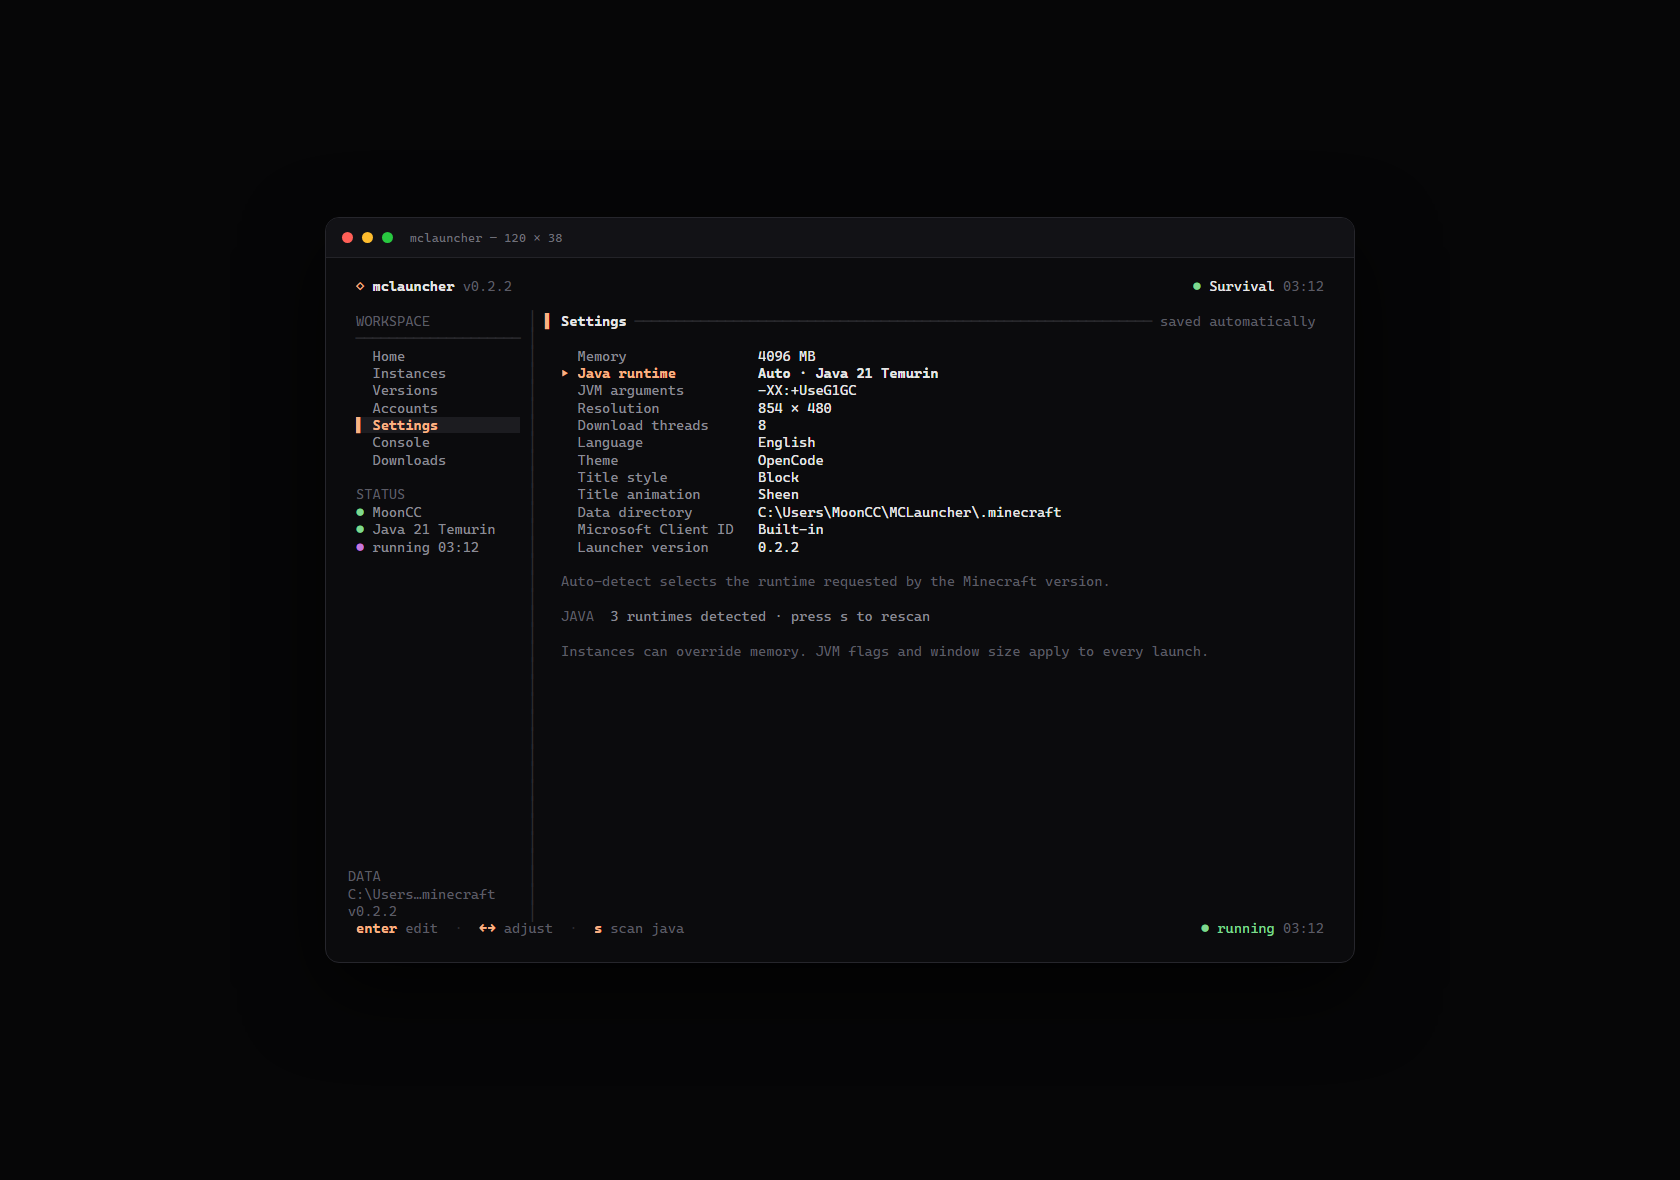
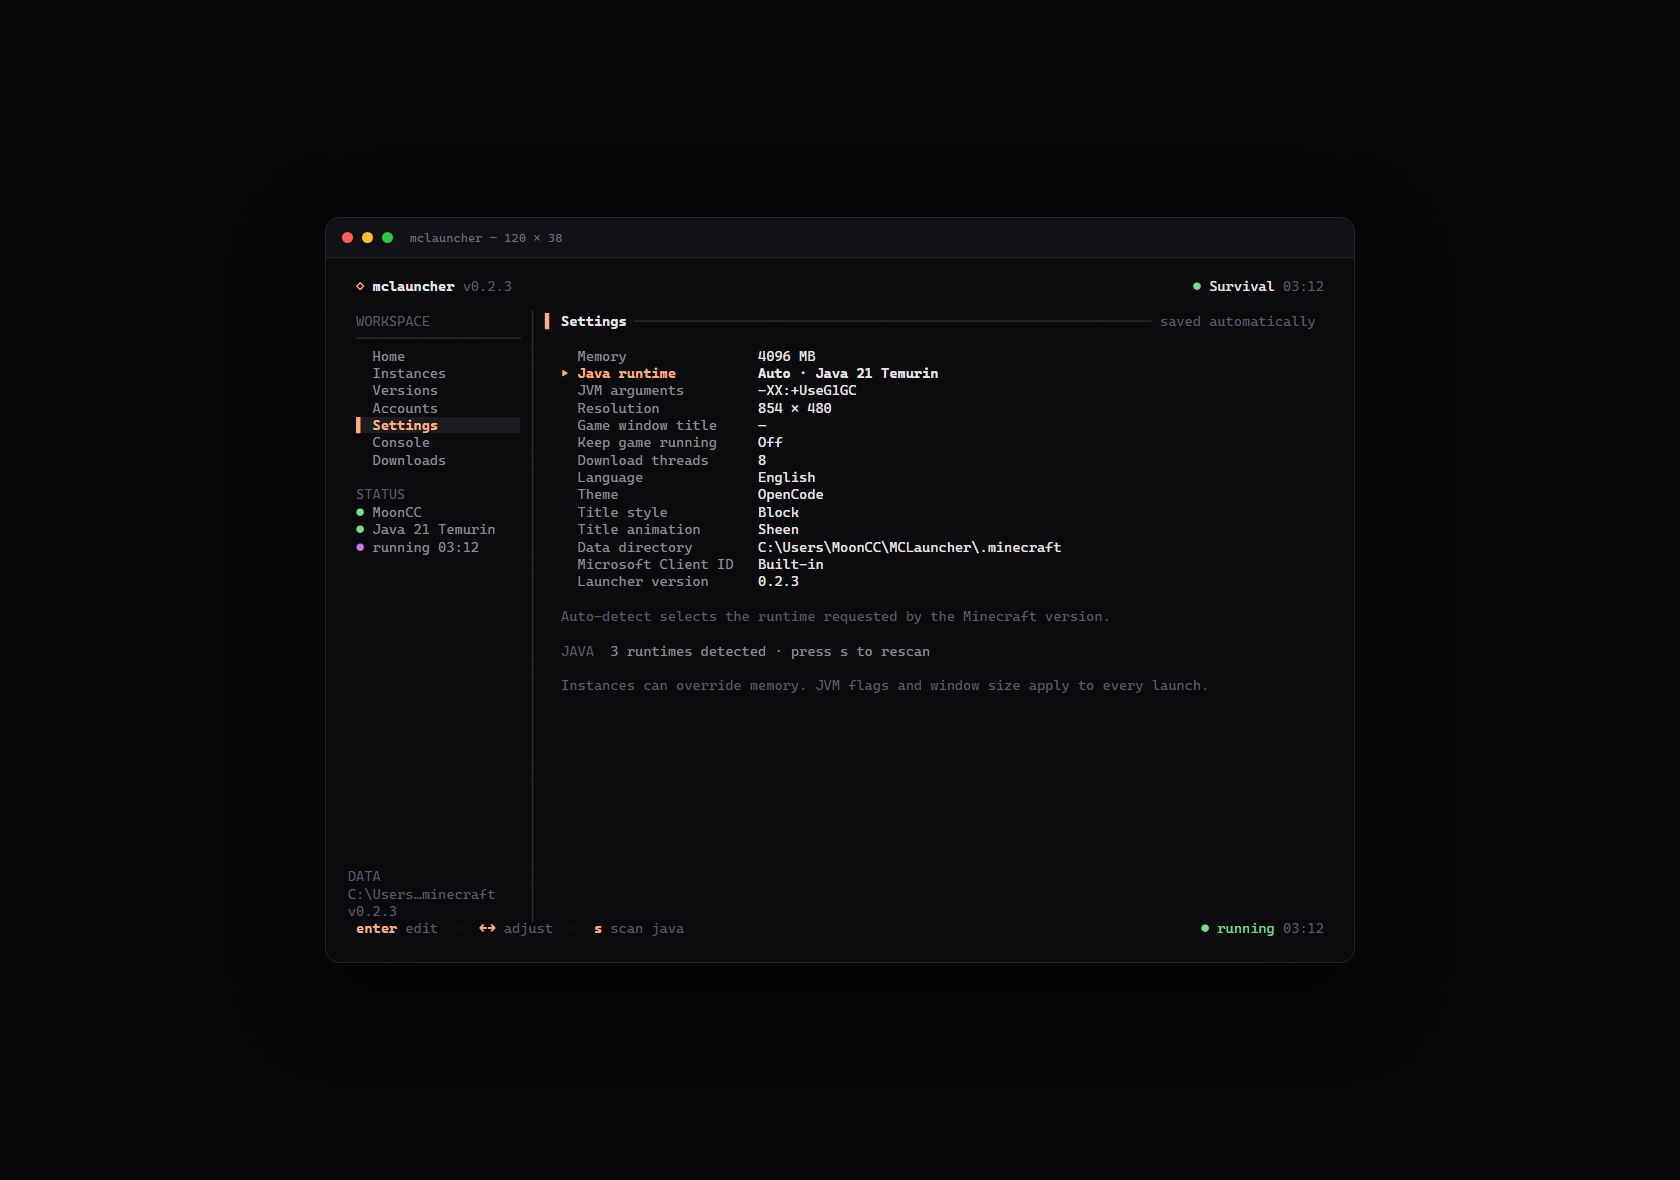
docs: add v0.2.3 release notes and screenshots

Changed region(s): [[0.3405, 0.3356, 0.7119, 0.6102]]

diff --git a/internal/tui/preview.go b/internal/tui/preview.go
@@ -46,7 +46,7 @@ func Preview(screenName string, width, height int, language ...string) string {
 	}
 
 	layout := paths.New(`C:\Users\MoonCC\MCLauncher\.minecraft`)
-	m := New(cfg, layout, nil, "0.2.2", "")
+	m := New(cfg, layout, nil, "0.2.3", "")
 	// Previews must be deterministic and must not read a real data directory.
 	m.taskHistory = nil
 	m.width = width
@@ -101,7 +101,7 @@ func Preview(screenName string, width, height int, language ...string) string {
 	push := func(source, text string, ago time.Duration) {
 		m.logs = append(m.logs, LogLine{At: now.Add(-ago), Source: source, Text: text})
 	}
-	push("system", "mclauncher 0.2.2", 62*time.Second)
+	push("system", "mclauncher 0.2.3", 62*time.Second)
 	push("launcher", "version manifest: network · 27 versions", 61*time.Second)
 	push("launcher", "java scan: 3 runtimes", 60*time.Second)
 	push("launcher", "installed 1.21.4 · 512 files · 283.4 MB", 59*time.Second)

diff --git a/internal/tui/preview_test.go b/internal/tui/preview_test.go
@@ -44,7 +44,7 @@ var previewScreens = []string{
 	"loader",
 	"loader-versions",
 	"loader-java",
-	"mods",
+	"content",
 }
 
 func TestPreviewFrames(t *testing.T) {

diff --git a/docs/releases/v0.2.3.md b/docs/releases/v0.2.3.md
@@ -1,0 +1,72 @@
+## 更新详情
+
+v0.2.3 聚焦实例内容管理与创建流程：新增「资源与模组」窗口，可在材质包、光影和模组之间切换，从 Modrinth 搜索下载，也可以导入本地文件或 https 直链；新建实例表单中可以直接选择模组加载器；退出启动器时是否保留游戏改为可配置；Windows 下还可以自定义 Minecraft 游戏窗口标题。
+
+### 资源与模组
+
+- 在 `Instances` 按 `p` 打开「资源与模组」窗口，使用 `tab` / `←` `→` / `1` `2` `3` 在材质包、光影和模组之间切换。
+- 支持从 Modrinth 搜索内容，并按实例的 Minecraft 版本与模组加载器过滤结果。
+- 支持按 `i` 导入本地 `.zip` / `.jar`，按 `u` 粘贴任意 https 直链下载；从其他网站下载的内容同样可以安装。
+- 材质包装入 `resourcepacks/`，并改写 `options.txt` 中的资源包开关；模组装入 `mods/`，使用 `.jar.disabled` 切换启用状态；光影装入 `shaderpacks/`，在游戏内选择。
+- 下载内容按 SHA-512 校验；手动放进目录的文件也会被扫描并列出。
+- 支持删除、重新扫描和打开对应内容目录。
+
+### 实例创建与加载器
+
+- 「新建实例」表单新增「Mod loader」行。
+- 在表单中按 `enter` 选择 Fabric、Quilt、Forge、NeoForge 或 OptiFine，再选择加载器版本和安装用的 Java 运行时。
+- 加载器安装完成后，新实例会自动指向对应的加载器版本，不再需要先回到 `Versions` 手动安装。
+
+### 退出时保留游戏
+
+- `Settings` 新增 `Keep game running` 开关，默认关闭。
+- 关闭时，退出启动器会停止由它启动的 Minecraft 进程。
+- 开启后，退出启动器不会停止游戏，适合希望继续在后台运行 Minecraft 的玩家。
+- 正常退出、`q` / `ctrl+c` 和 Bubble Tea 异常退出路径都会遵循该设置。
+
+### 游戏窗口标题
+
+- `Settings` 新增 `Game window title`。
+- 填写后会在游戏窗口出现时通过 Win32 API 修改标题；留空则保持 Minecraft 自带标题。
+- 目前仅 Windows 支持；其他平台会保持原窗口标题。
+- 启动器自己的终端窗口标题固定为 `MCLauncher TUI`。
+
+### 项目维护
+
+- 新增 GitHub Issue 与 Pull Request 模板，方便反馈问题和提交改动。
+- 清理旧模组面板移除后遗留的文案与快捷键提示。
+- README、预览页面和文档截图同步更新。
+
+### 平台与兼容性
+
+- Windows、Linux、macOS 的 `amd64` / `arm64` 构建目标保持不变。
+- 旧版 `config.json` 继续兼容；新增的 `keep_game_running` 缺省为 `false`，升级后默认行为仍是退出启动器时停止游戏。
+- 游戏窗口标题修改仅支持 Windows；其他平台不会受影响。
+- 资源包兼容性最终由 Minecraft 的 `pack_format` 判断，启动器只按游戏版本过滤搜索结果；光影需要 Iris 或 OptiFine，模组需要对应的加载器。
+- Modrinth 搜索和下载需要网络；本地文件导入与手动放入目录的方式可以离线使用。
+
+### 升级说明
+
+可以直接使用应用内更新，或下载新版本压缩包替换旧可执行文件；不需要迁移数据或修改配置。
+
+1. 关闭正在运行的启动器和游戏。
+2. 用新版本压缩包中的可执行文件替换旧文件，或在 `Settings → Launcher version` 中检查更新。
+3. 启动后原有的账户、实例、资源与模组、Java 设置和数据目录都会保留。
+
+如果之前通过 `--data-dir` 或 `MCLAUNCHER_DATA_DIR` 指定了数据目录，升级后继续使用相同参数即可。
+
+### 安装
+
+从下方 Assets 下载对应平台的压缩包：
+
+- Windows：`mclauncher_0.2.3_windows_amd64.zip` / `mclauncher_0.2.3_windows_arm64.zip`
+- Linux：`mclauncher_0.2.3_linux_amd64.tar.gz` / `mclauncher_0.2.3_linux_arm64.tar.gz`
+- macOS：`mclauncher_0.2.3_darwin_amd64.tar.gz` / `mclauncher_0.2.3_darwin_arm64.tar.gz`
+
+校验和见 `checksums.txt`。macOS 首次运行如被系统拦截：
+
+```bash
+xattr -d com.apple.quarantine ./mclauncher
+```
+
+**完整变更**：https://github.com/MoonCC233/MCLauncher-TUI/compare/v0.2.2...v0.2.3
